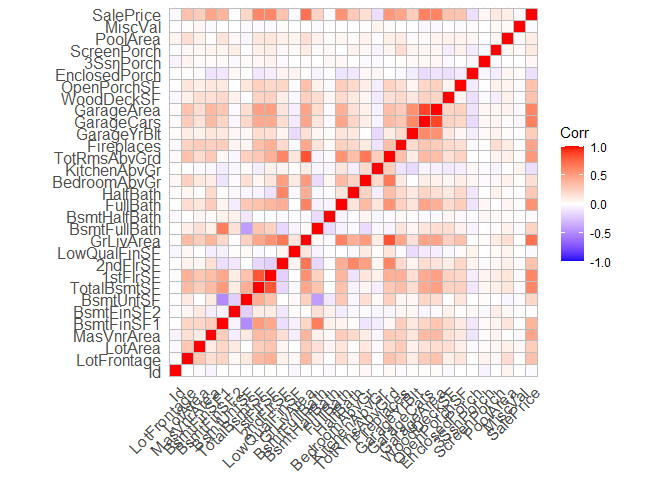
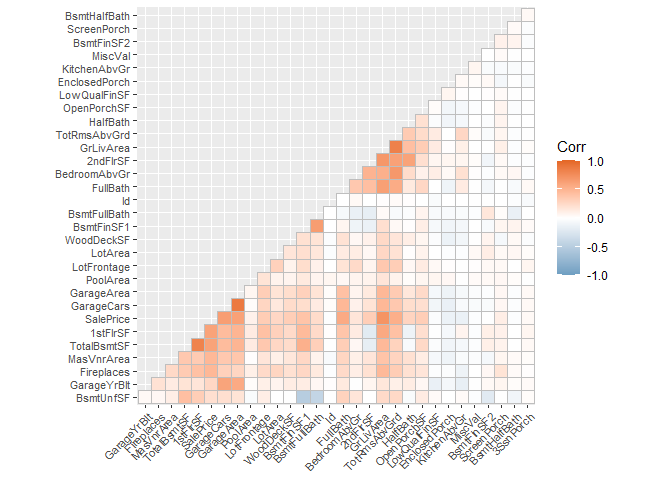
In progress

diff --git a/house_price_predictions/house_price_predictions.md b/house_price_predictions/house_price_predictions.md
@@ -933,16 +933,18 @@ df %>% head()
 
 # 4. Correlation Analysis
 
-**Note:** Given that we have 240 columns, it would be quite
-computationally intensive to display the entire correlation matrix and
-visualize it for user-friendly analysis. As a result, we will only
-filter out relatively and highly correlated relationship with
-coefficient between 0.7 and 1 (non-inclusive to avoid pairs of identical
-variables).
-
 ``` r
+# Correlation matrix and plot
 df_num <- df[, sapply(df, class) == "numeric"]
-ggcorrplot(cor(df_num))
+df_cor <- cor(df_num)
+ggcorrplot(df_cor, hc.order = TRUE, insig = "blank",
+           type = "lower", ggtheme = theme_gray,
+           colors = c("#6D9EC1", "white", "#E46726"),
+           tl.cex = 8)
 ```
 
 ![](house_price_predictions_files/figure-gfm/unnamed-chunk-23-1.png)<!-- -->
+
+**Note:** Next, we will only filter out relatively and highly correlated
+relationship with coefficient between 0.7 and 1 (non-inclusive to avoid
+pairs of identical variables).
